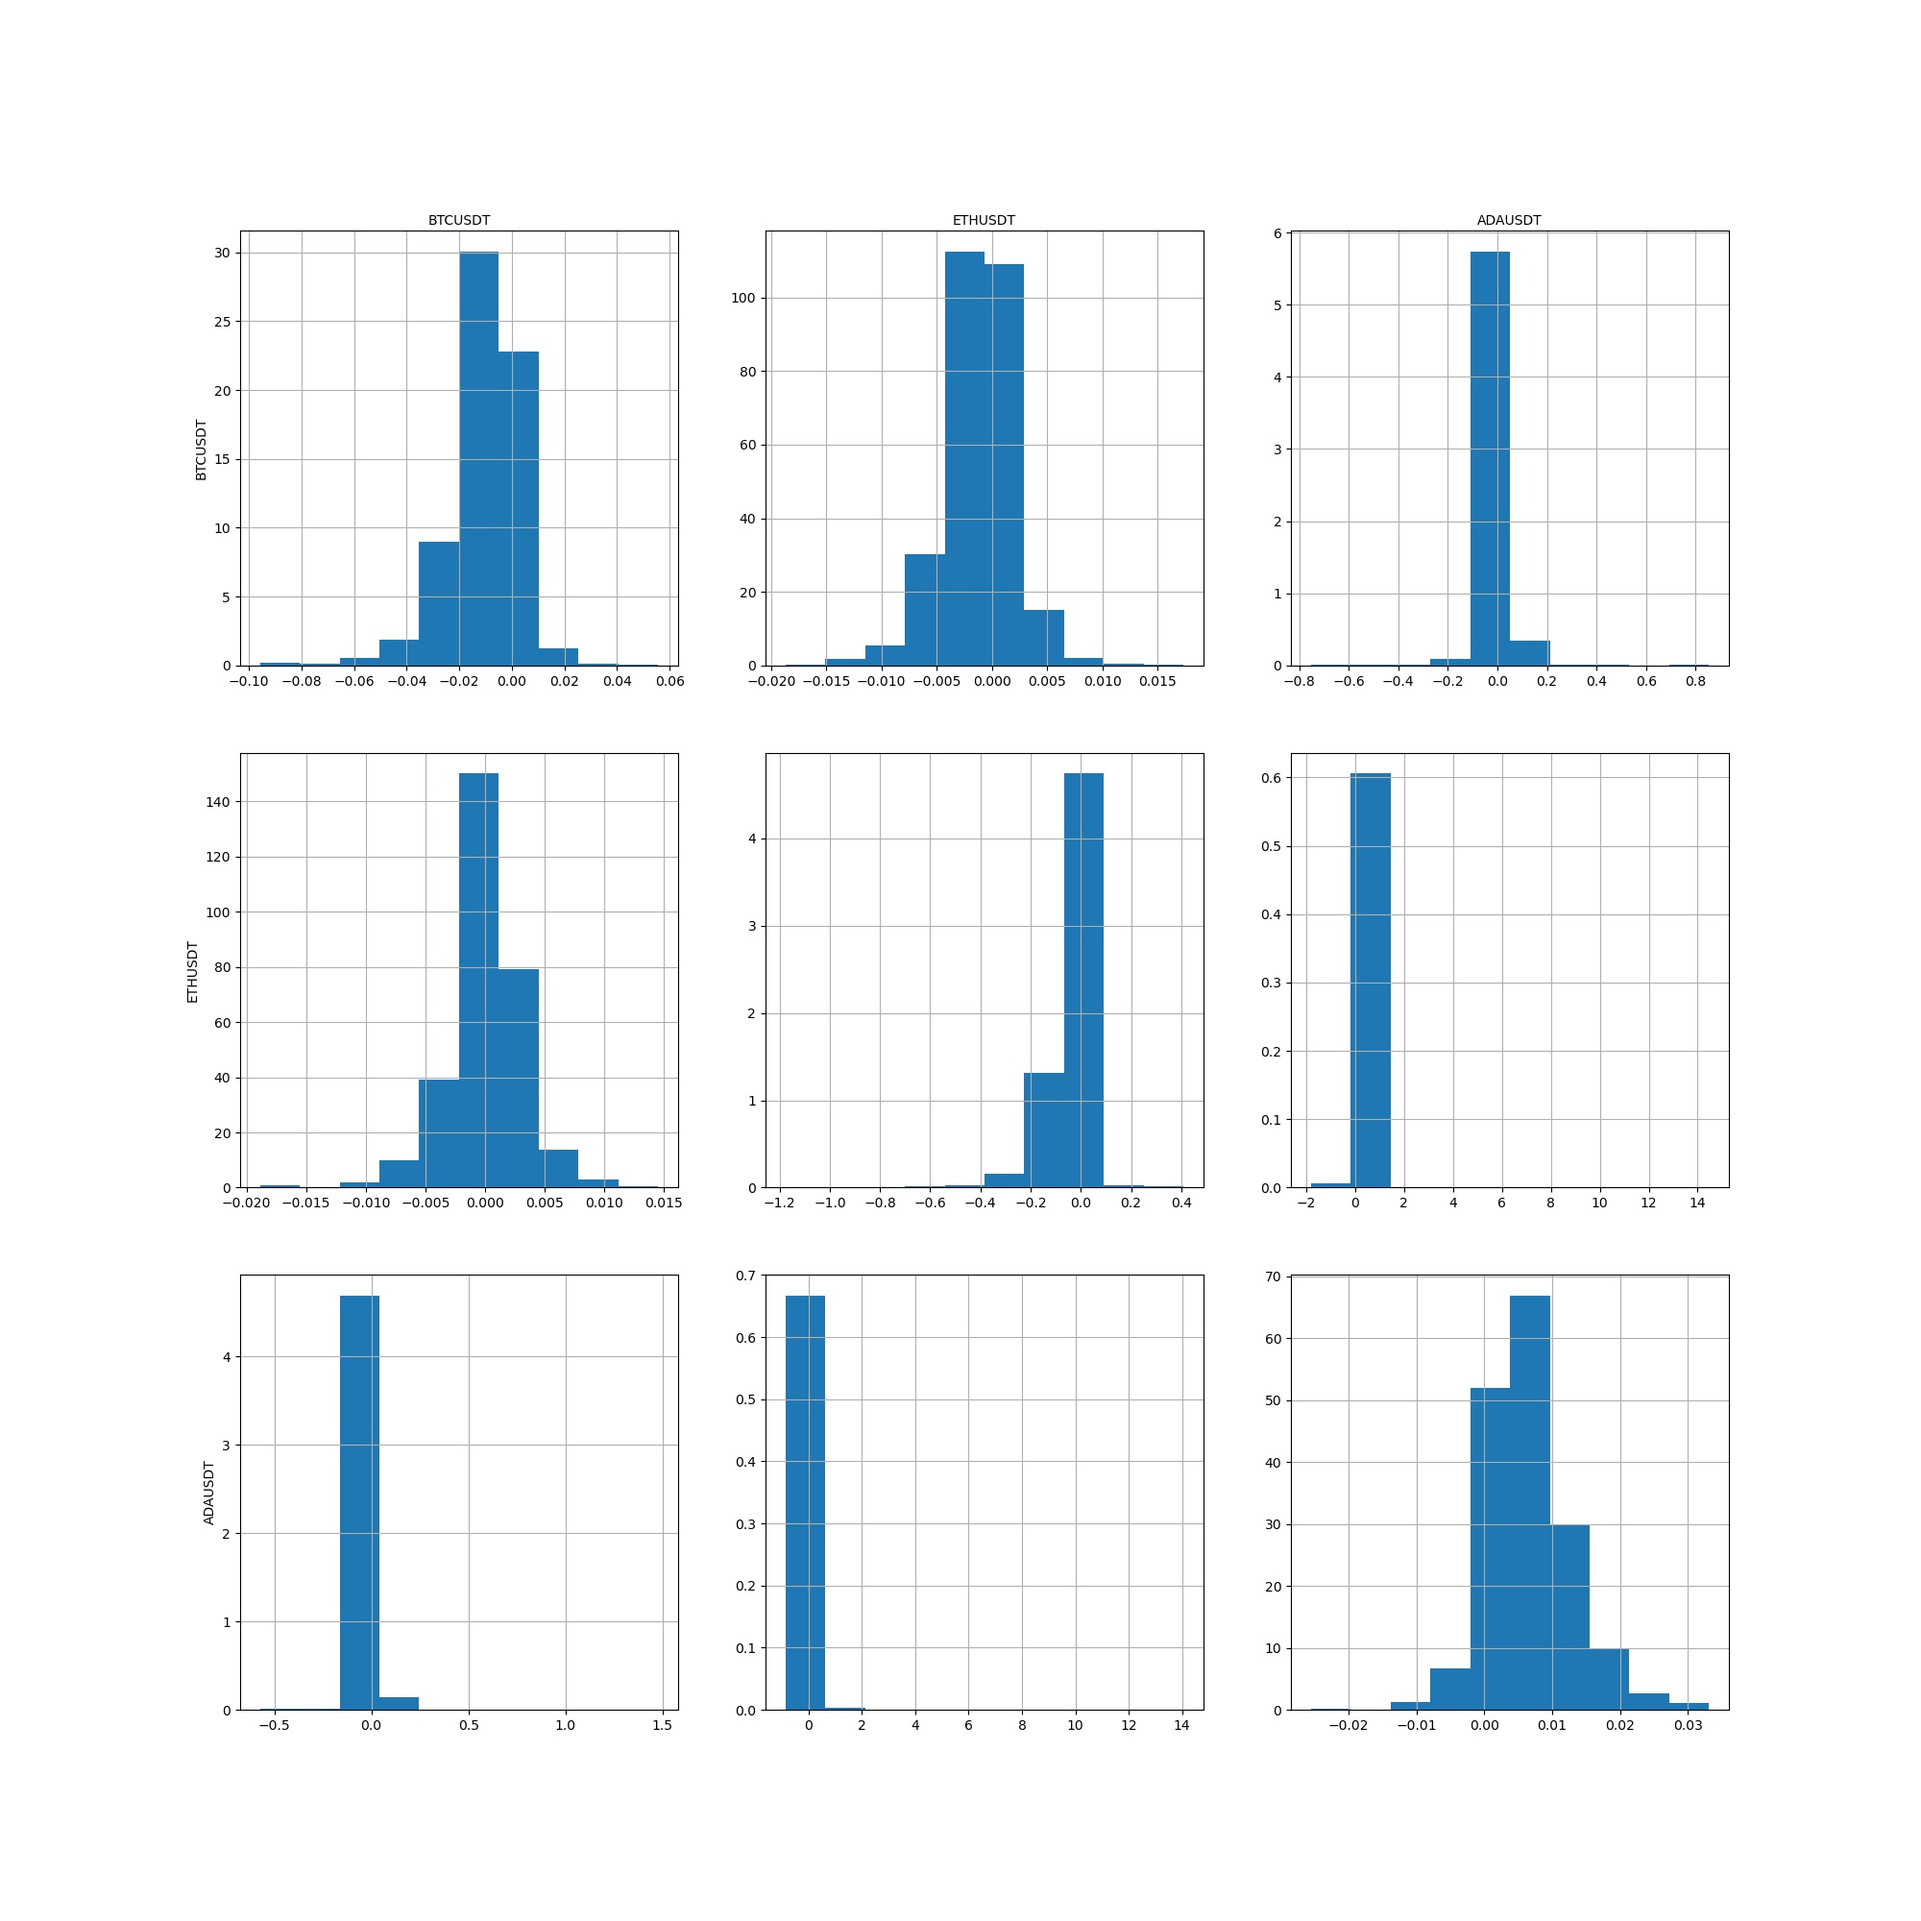
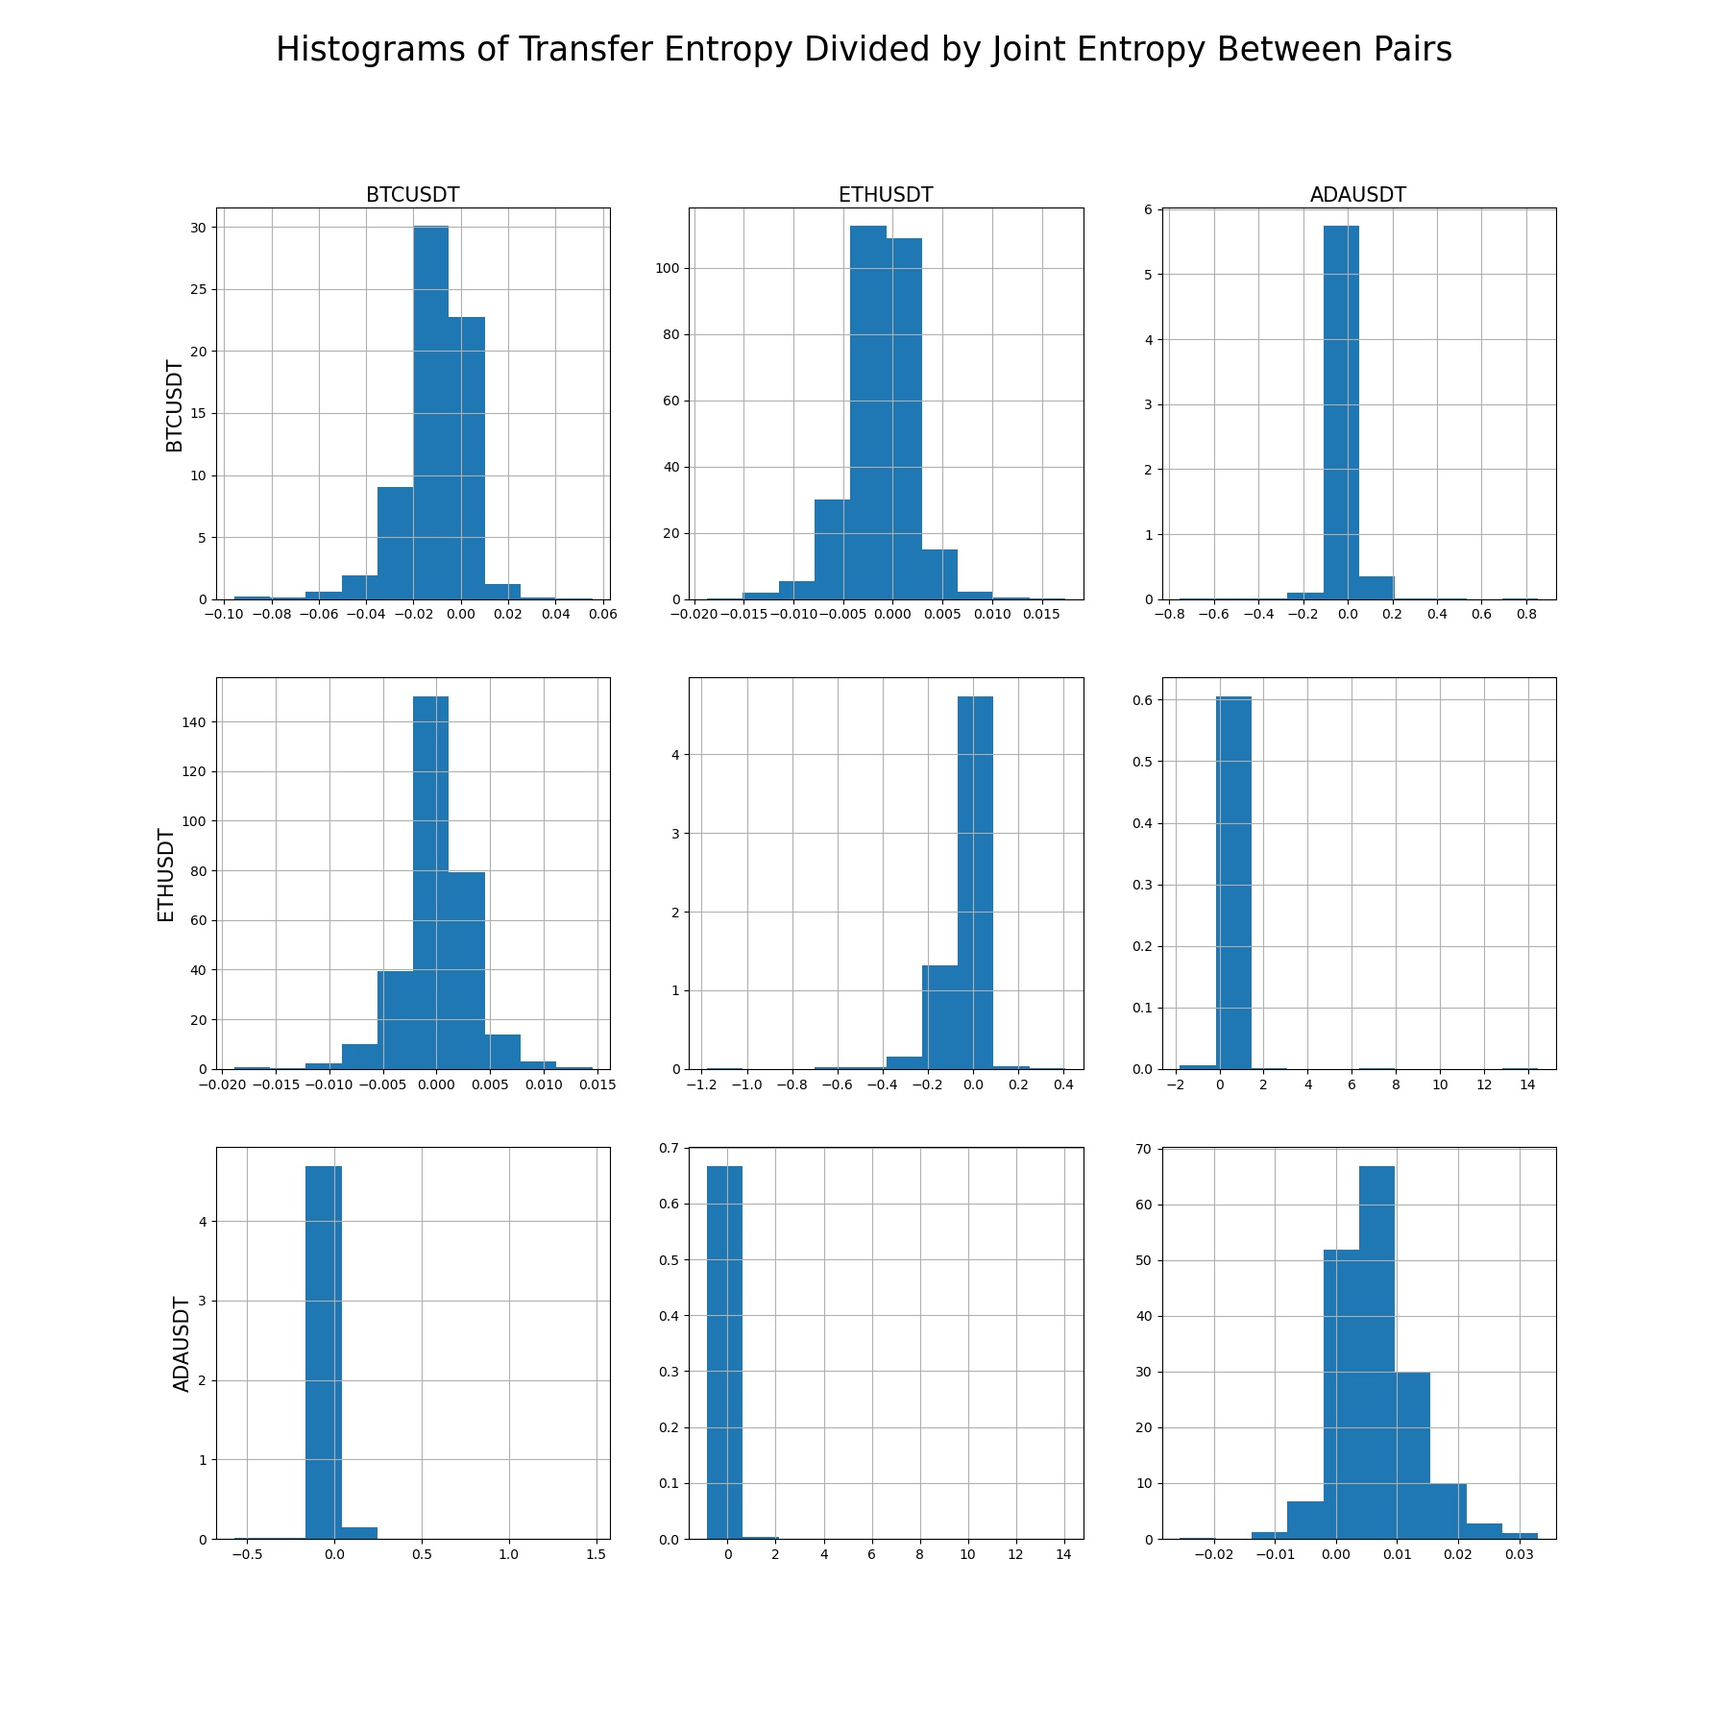
fixes for histogram

diff --git a/results_analysis.py b/results_analysis.py
@@ -40,8 +40,9 @@ class ResultsAnalysis:
         if df is None:
             df = self.div_df
             description = "Transfer Entropy Divided by Joint Entropy"
+
         
-        fig, axes = plt.subplots(ncols=self.ncols, nrows=self.ncols, figsize=(20,20));
+        fig, axes = plt.subplots(ncols=self.ncols, nrows=self.ncols, figsize=(18,18));
 
         i, j = 0,0
         for col in df.columns:
@@ -50,13 +51,15 @@ class ResultsAnalysis:
                 i+=1
             df[col].hist(ax=axes[i,j], density=True);
             if j == 0:
-                axes[i,j].set_ylabel(self.asset_list[i])
+                axes[i,j].set_ylabel(self.asset_list[i], fontsize = 15)
             if i == 0:
-                axes[i,j].set_xlabel(self.asset_list[j])    
+                axes[i,j].set_xlabel(self.asset_list[j], fontsize = 15)    
                 axes[i,j].xaxis.set_label_position('top') 
                 
             j+=1
         filename = self.folder + "/histogram.jpg"
+        title = f"Histograms of {description} Between Pairs" 
+        fig.suptitle(title, fontsize=25)
         plt.savefig(filename)
         plt.close()
 
@@ -110,9 +113,9 @@ if __name__ == "__main__":
     ra.initialize()
 
     ra.create_histogram_plot()
-    ra.create_mean_heatmap()
-    ra.create_std_heatmap()
-    ra.create_time_dependent_plot()
+    # ra.create_mean_heatmap()
+    # ra.create_std_heatmap()
+    # ra.create_time_dependent_plot()
 
 
     
